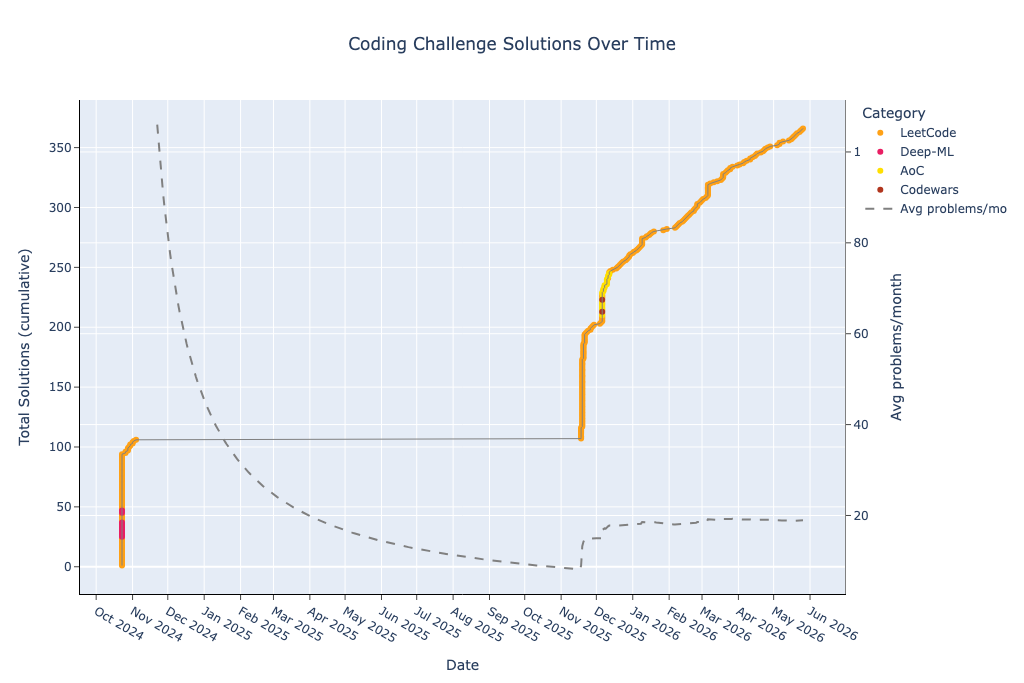
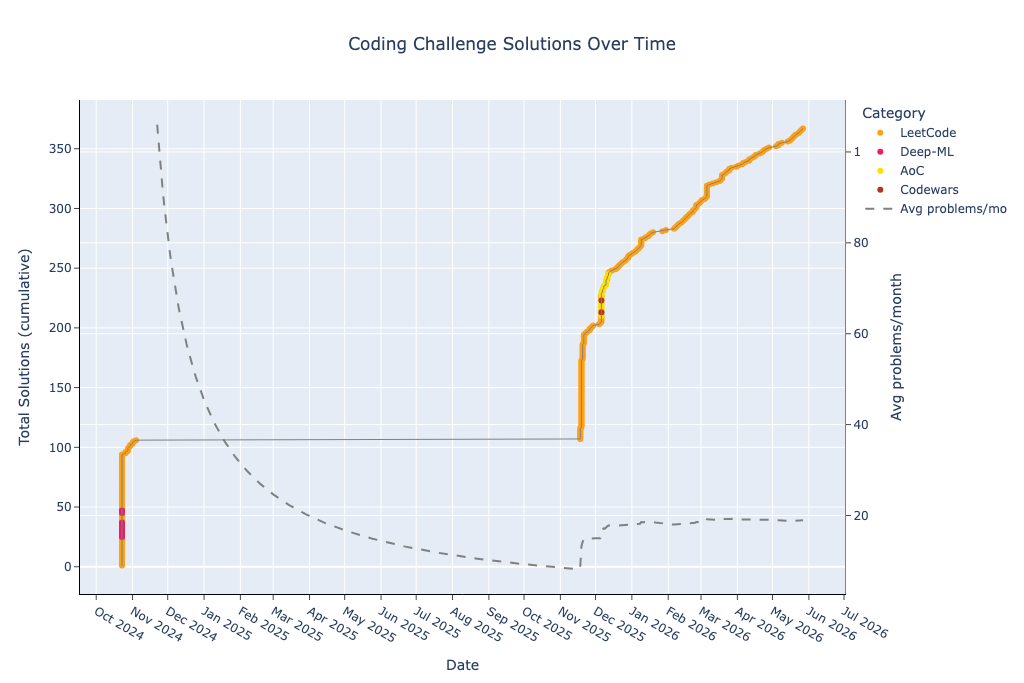
Regenerate README with LeetCode 3121

diff --git a/README.md b/README.md
@@ -36,7 +36,7 @@ This repository contains a collection of coding problems solved on various platf
 | deep-ml-easy | 9 | 72 | 8 | 10 | 0 | 2 | 13 | 0 | 0 | 0 | 12 | 3 | 0 | 0 | 0 | 0 | 0 | 0 |
 | deep-ml-medium | 5 | 69 | 13 | 5 | 0 | 1 | 7 | 0 | 0 | 0 | 8 | 2 | 0 | 0 | 0 | 0 | 0 | 0 |
 | leetcode-easy | 118 | 1941 | 16 | 160 | 6 | 164 | 151 | 42 | 6 | 14 | 195 | 4 | 4 | 14 | 1 | 0 | 11 | 0 |
-| leetcode-medium | 175 | 4573 | 26 | 308 | 5 | 467 | 339 | 103 | 21 | 39 | 383 | 6 | 37 | 55 | 11 | 26 | 23 | 7 |
+| leetcode-medium | 176 | 4595 | 26 | 309 | 5 | 471 | 341 | 103 | 21 | 39 | 384 | 6 | 37 | 57 | 11 | 26 | 23 | 7 |
 | leetcode-hard | 33 | 1022 | 30 | 60 | 4 | 93 | 80 | 21 | 10 | 15 | 76 | 3 | 7 | 12 | 8 | 3 | 9 | 9 |
 
 ## Recent Changes
@@ -47,6 +47,7 @@ Recently solved and added problems.
 
 | Date | Type | Challenge | Solution Code | Problem Link |
 | --- | --- | --- | --- | --- |
+| 2026-05-27 | LeetCode Medium | Count the Number of Special Characters II | [python](leetcode/medium/3121.%20Count%20the%20Number%20of%20Special%20Characters%20II.py) | [leetcode.com](https://leetcode.com/problems/count-the-number-of-special-characters-ii/) |
 | 2026-05-26 | LeetCode Easy | Count the Number of Special Characters I | [python](leetcode/easy/3120.%20Count%20the%20Number%20of%20Special%20Characters%20I.py) | [leetcode.com](https://leetcode.com/problems/count-the-number-of-special-characters-i/) |
 | 2026-05-25 | LeetCode Medium | Jump Game VII | [python](leetcode/medium/1871.%20Jump%20Game%20VII.py) | [leetcode.com](https://leetcode.com/problems/jump-game-vii/) |
 | 2026-05-24 | LeetCode Hard | Jump Game V | [python](leetcode/hard/1340.%20Jump%20Game%20V.py) | [leetcode.com](https://leetcode.com/problems/jump-game-v/) |
@@ -56,7 +57,6 @@ Recently solved and added problems.
 | 2026-05-20 | LeetCode Medium | Find the Prefix Common Array of Two Arrays | [python](leetcode/medium/2657.%20Find%20the%20Prefix%20Common%20Array%20of%20Two%20Arrays.py) | [leetcode.com](https://leetcode.com/problems/find-the-prefix-common-array-of-two-arrays/) |
 | 2026-05-19 | LeetCode Easy | Minimum Common Value | [python](leetcode/easy/2540.%20Minimum%20Common%20Value.py) | [leetcode.com](https://leetcode.com/problems/minimum-common-value/) |
 | 2026-05-18 | LeetCode Hard | Jump Game IV | [python](leetcode/hard/1345.%20Jump%20Game%20IV.py) | [leetcode.com](https://leetcode.com/problems/jump-game-iv/) |
-| 2026-05-17 | LeetCode Medium | Jump Game III | [python](leetcode/medium/1306.%20Jump%20Game%20III.py) | [leetcode.com](https://leetcode.com/problems/jump-game-iii/) |
 # Advent of Code
 ### 2025
 | Day | Challenge | Time Complexity | Space Complexity | Solution Code | Problem Link |
@@ -425,6 +425,7 @@ Recently solved and added problems.
 | 3070 | Count Submatrices with Top-Left Element and Sum Less Than k | O(n*m) | O(1) | [python](leetcode/medium/3070.%20Count%20Submatrices%20with%20Top-Left%20Element%20and%20Sum%20Less%20Than%20k.py) | [leetcode.com](https://leetcode.com/problems/count-submatrices-with-top-left-element-and-sum-less-than-k/) |
 | 3075 | Maximize Happiness of Selected Children | O(n) | O(1) | [python](leetcode/medium/3075.%20Maximize%20Happiness%20of%20Selected%20Children.py) | [leetcode.com](https://leetcode.com/problems/maximize-happiness-of-selected-children/) |
 | 3100 | Water Bottles II | O(n) | O(1) | [python](leetcode/medium/3100.%20Water%20Bottles%20II.py) | [leetcode.com](https://leetcode.com/problems/water-bottles-ii/) |
+| 3121 | Count the Number of Special Characters II | O(n) | O(n) | [python](leetcode/medium/3121.%20Count%20the%20Number%20of%20Special%20Characters%20II.py) | [leetcode.com](https://leetcode.com/problems/count-the-number-of-special-characters-ii/) |
 | 3147 | Taking Maximum Energy From the Mystic Dungeon | O(n) | O(1) | [python](leetcode/medium/3147.%20Taking%20Maximum%20Energy%20From%20the%20Mystic%20Dungeon.py) | [leetcode.com](https://leetcode.com/problems/taking-maximum-energy-from-the-mystic-dungeon/) |
 | 3163 | String Compression III | O(n) | O(n) | [python](leetcode/medium/3163.%20String%20Compression%20III.py) | [leetcode.com](https://leetcode.com/problems/string-compression-iii/) |
 | 3186 | Maximum Total Damage With Spell Casting | O(n) | O(1) | [python](leetcode/medium/3186.%20Maximum%20Total%20Damage%20With%20Spell%20Casting.py) | [leetcode.com](https://leetcode.com/problems/maximum-total-damage-with-spell-casting/) |

diff --git a/CHANGES.md b/CHANGES.md
@@ -6,6 +6,7 @@ Recently solved and added problems.
 
 | Date | Type | Challenge | Solution Code | Problem Link |
 | --- | --- | --- | --- | --- |
+| 2026-05-27 | LeetCode Medium | Count the Number of Special Characters II | [python](leetcode/medium/3121.%20Count%20the%20Number%20of%20Special%20Characters%20II.py) | [leetcode.com](https://leetcode.com/problems/count-the-number-of-special-characters-ii/) |
 | 2026-05-26 | LeetCode Easy | Count the Number of Special Characters I | [python](leetcode/easy/3120.%20Count%20the%20Number%20of%20Special%20Characters%20I.py) | [leetcode.com](https://leetcode.com/problems/count-the-number-of-special-characters-i/) |
 | 2026-05-25 | LeetCode Medium | Jump Game VII | [python](leetcode/medium/1871.%20Jump%20Game%20VII.py) | [leetcode.com](https://leetcode.com/problems/jump-game-vii/) |
 | 2026-05-24 | LeetCode Hard | Jump Game V | [python](leetcode/hard/1340.%20Jump%20Game%20V.py) | [leetcode.com](https://leetcode.com/problems/jump-game-v/) |
@@ -15,4 +16,3 @@ Recently solved and added problems.
 | 2026-05-20 | LeetCode Medium | Find the Prefix Common Array of Two Arrays | [python](leetcode/medium/2657.%20Find%20the%20Prefix%20Common%20Array%20of%20Two%20Arrays.py) | [leetcode.com](https://leetcode.com/problems/find-the-prefix-common-array-of-two-arrays/) |
 | 2026-05-19 | LeetCode Easy | Minimum Common Value | [python](leetcode/easy/2540.%20Minimum%20Common%20Value.py) | [leetcode.com](https://leetcode.com/problems/minimum-common-value/) |
 | 2026-05-18 | LeetCode Hard | Jump Game IV | [python](leetcode/hard/1345.%20Jump%20Game%20IV.py) | [leetcode.com](https://leetcode.com/problems/jump-game-iv/) |
-| 2026-05-17 | LeetCode Medium | Jump Game III | [python](leetcode/medium/1306.%20Jump%20Game%20III.py) | [leetcode.com](https://leetcode.com/problems/jump-game-iii/) |